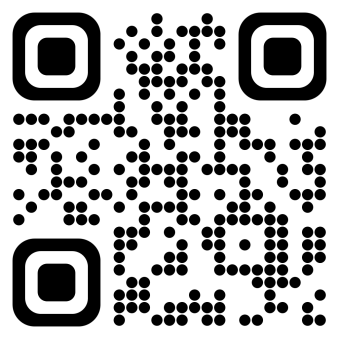
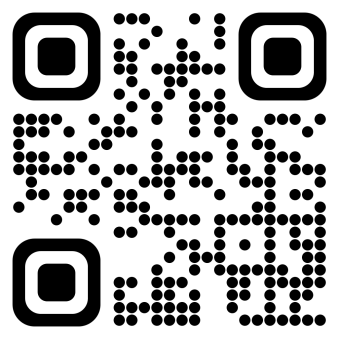
Correct URL and QR code

diff --git a/slides.md b/slides.md
@@ -18,7 +18,7 @@ Marcin Dąbrowski
 ### feel free to follow along
 
 ![QR](assets/qr.png)  
-mardab.github.io/ujipp
+https://mardab.github.io/UJIPP
 
 ---
 
